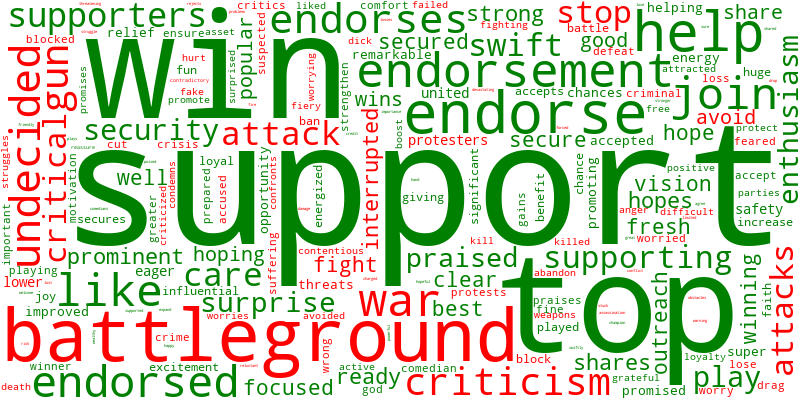
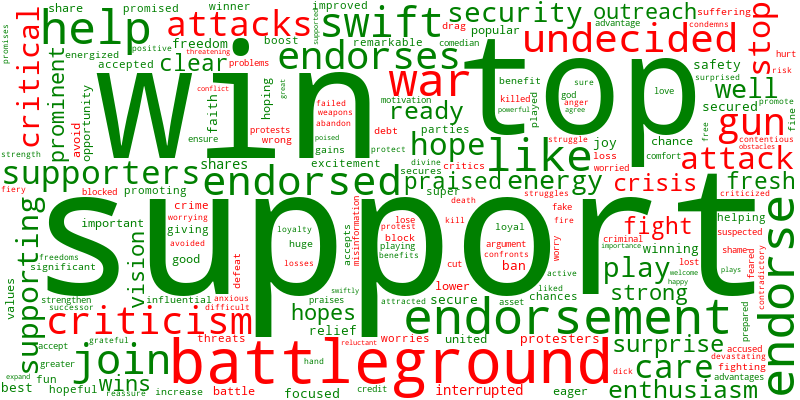
Word cloud of media attitudes towards the two candidates

diff --git a/WordCloud/WordCloud.py b/WordCloud/WordCloud.py
@@ -2,12 +2,15 @@ import json
 import nltk
 from nltk.corpus import stopwords
 from nltk.sentiment import SentimentIntensityAnalyzer
+from nltk.tokenize import word_tokenize
 from wordcloud import WordCloud
 import matplotlib.pyplot as plt
 
 # 确保下载 nltk 停用词和 VADER 词典
 nltk.download('stopwords')
 nltk.download('vader_lexicon')
+nltk.download('punkt')  # 确保下载 punkt 数据包
+nltk.download('punkt_tab')  # 确保下载 punkt_tab 数据包
 
 # 创建情绪分析器
 sia = SentimentIntensityAnalyzer()
@@ -54,8 +57,8 @@ for item in data:
 trump_texts = [item['title'] + " " + item['summary'] for item in trump_data]
 trump_keywords = []
 for text in trump_texts:
-    # 分词和小写化
-    words = text.lower().split()
+    # 使用 word_tokenize 进行分词
+    words = word_tokenize(text.lower())
     words = [word for word in words if word.isalpha() and word not in stop_words]
 
     # 提取情绪相关的关键词
@@ -70,8 +73,8 @@ trump_unique_keywords = set([word for word, score in trump_keywords])
 harris_texts = [item['title'] + " " + item['summary'] for item in harris_data]
 harris_keywords = []
 for text in harris_texts:
-    # 分词和小写化
-    words = text.lower().split()
+    # 使用 word_tokenize 进行分词
+    words = word_tokenize(text.lower())
     words = [word for word in words if word.isalpha() and word not in stop_words]
 
     # 提取情绪相关的关键词
@@ -90,7 +93,7 @@ print("Harris Keywords:", harris_unique_keywords)
 def generate_wordcloud(keywords, name, related_texts):
     word_freq = {}
     for text in related_texts:
-        for word in text.lower().split():
+        for word in word_tokenize(text.lower()):
             if word in keywords:
                 if word in word_freq:
                     word_freq[word] += 1
